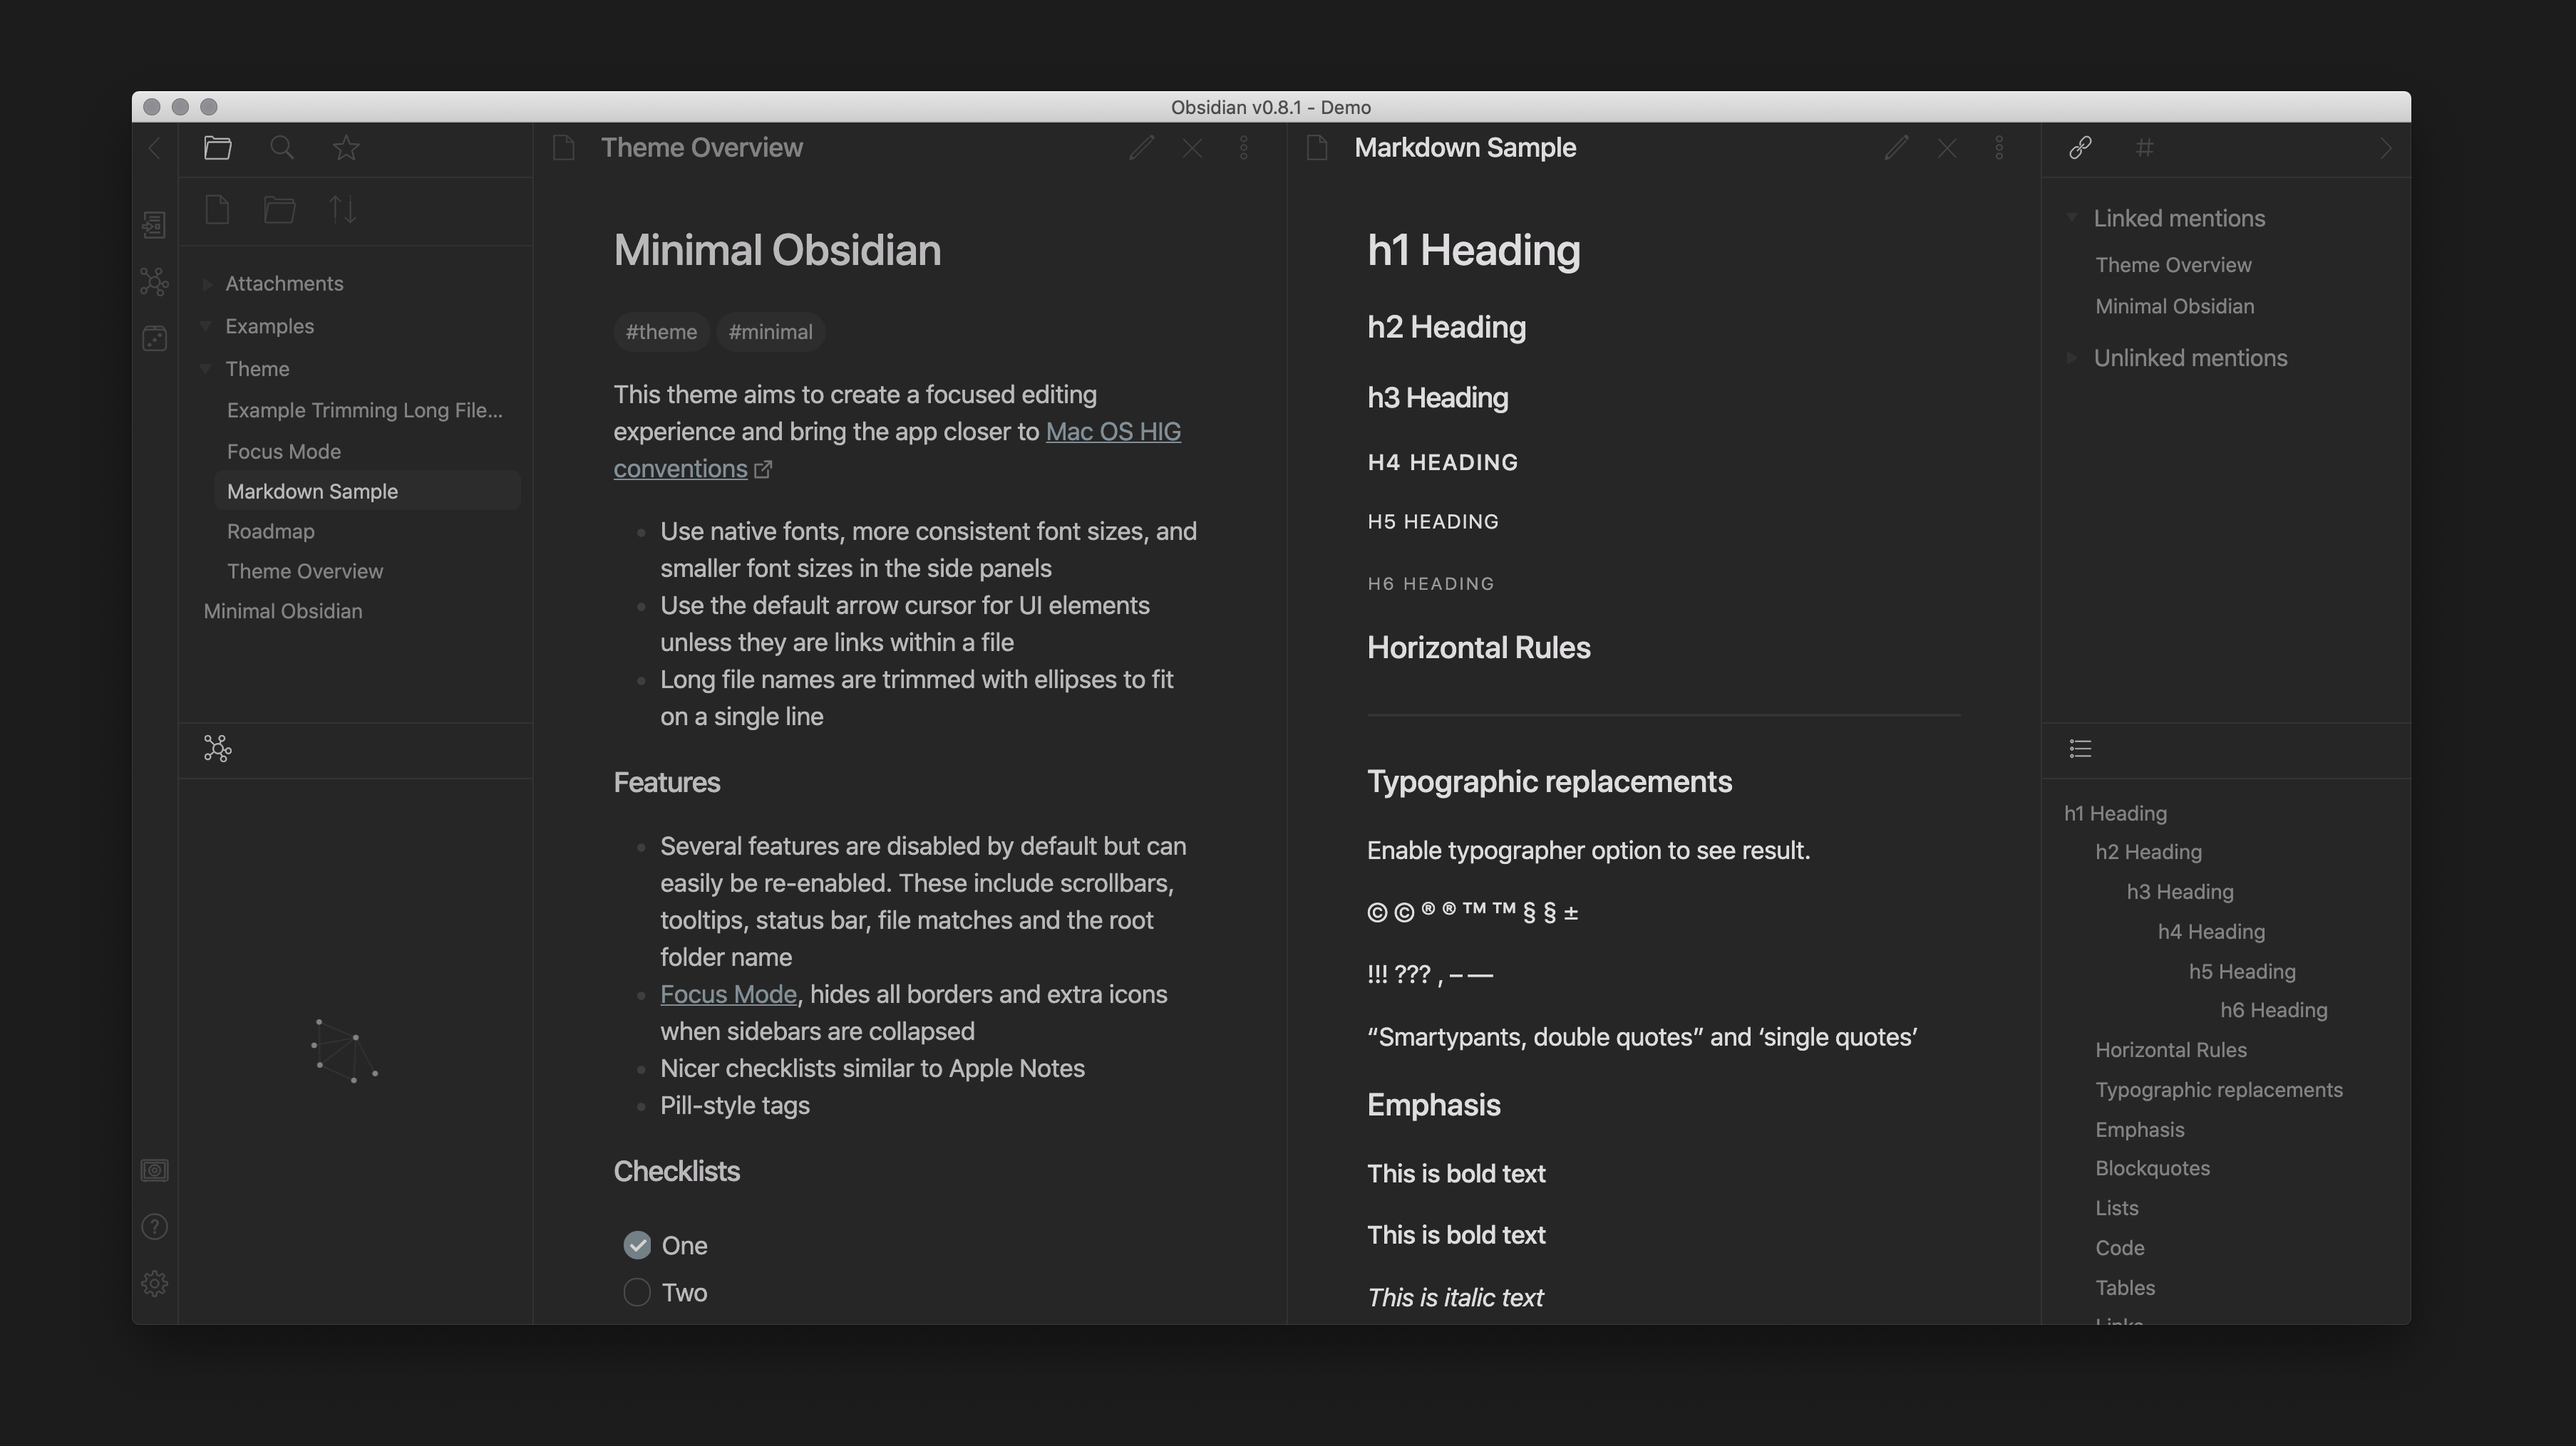
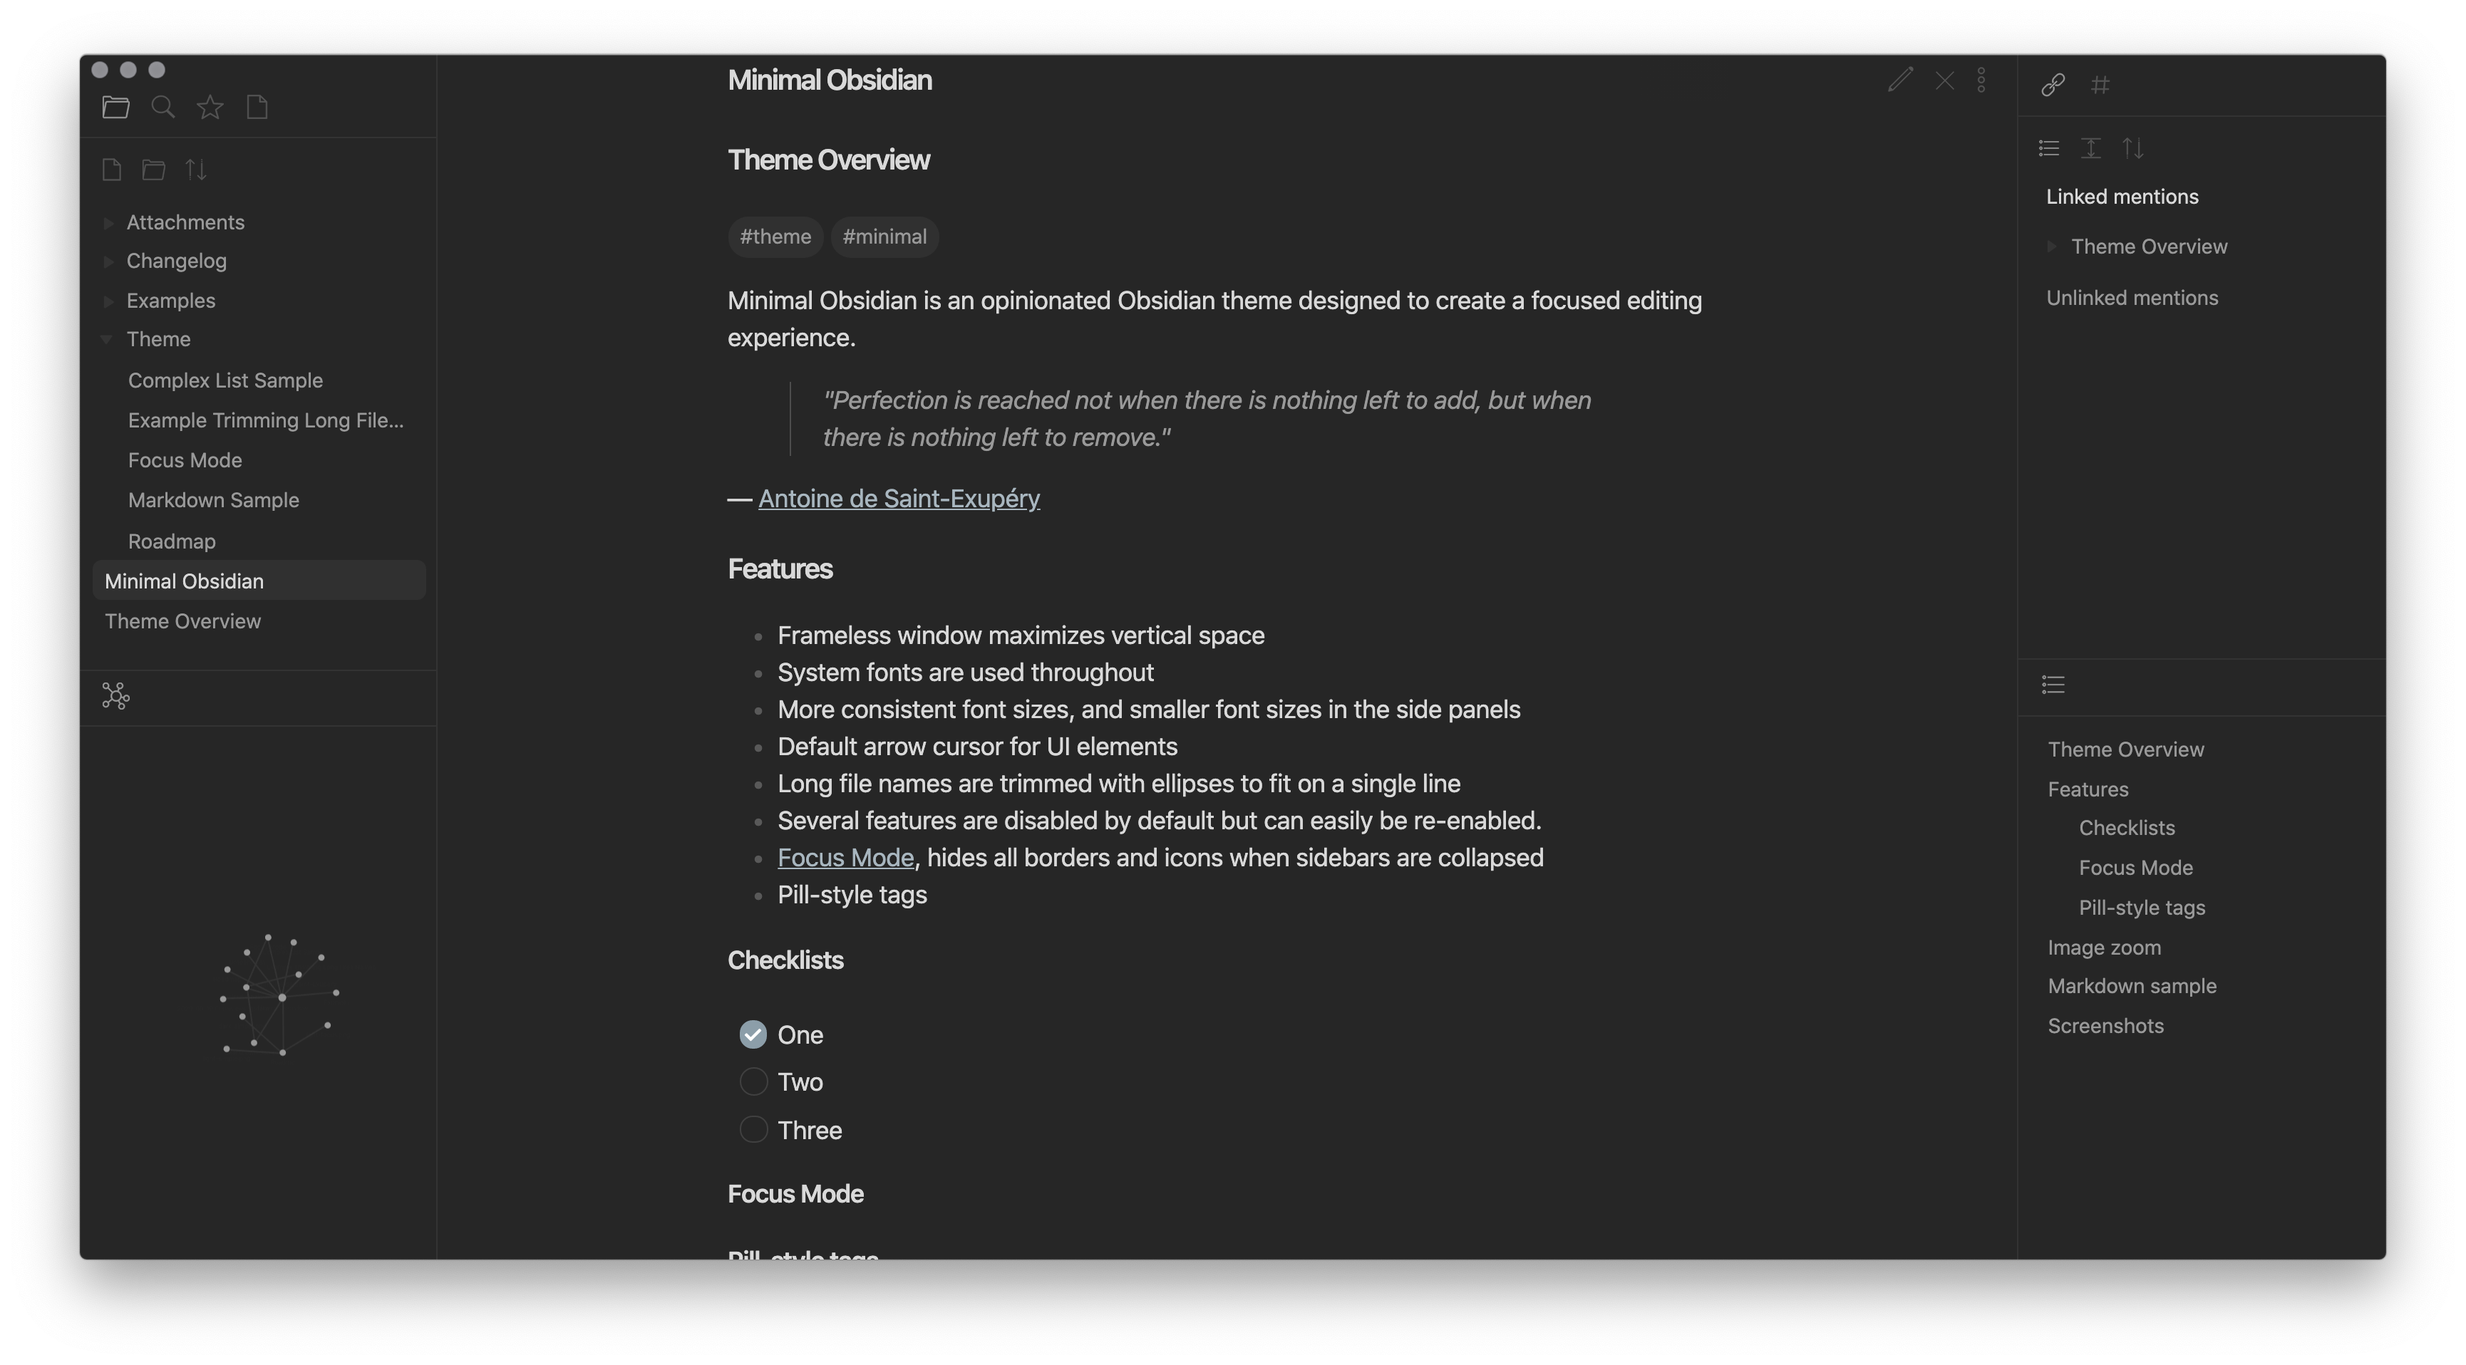
Prepare for release

diff --git a/obsidian.css b/obsidian.css
@@ -327,14 +327,14 @@ body, input, button,
 .HyperMD-header-1,
 .cm-header-1 {
   letter-spacing:-0.02em;
-  font-size:22px !important;
+  font-size:24px !important;
   font-weight:var(--bold-weight) !important;
 }
 .markdown-preview-view h2,
 .HyperMD-header-2,
 .cm-header-2 {
   letter-spacing:-0.02em;
-  font-size:20px !important;
+  font-size:18px !important;
   font-weight:var(--bold-weight) !important;
 }
 .markdown-preview-view h3,
@@ -1029,7 +1029,7 @@ input[type=checkbox]:checked {
 .tree-view-item-collapse {
   opacity:1;
 }
-.outline > .tree-view-item:first-child > .tree-view-item-self .right-triangle {
+.outline > .tree-view-item > .tree-view-item-self .right-triangle {
   opacity:0;
 }
 
@@ -1309,7 +1309,7 @@ ul {
   padding-inline-start:2em;
   list-style:none;
 }
-ul ul, ol ul {
+ul ul, ol ul, ol ol ul, ol ul ul, ul ol ul, ul ul ul {
   list-style:none;
 }
 ul > li:not(.task-list-item)::before {

diff --git a/README.md b/README.md
@@ -1,22 +1,47 @@
-# Minimal Obsidian
+Minimal is an opinionated Obsidian theme designed to create a focused editing experience and more Mac-like interface.
 
 ### Disclaimer
 
-This theme is provided as is, and is focused on my personal use of Obsidian. As such I haven't optimized or tested it with all the features of Obsidian that I don't frequently use. Since this theme modifies significant parts of the Obsidian interface, it might break with future updates. It also may be incompatible with other bits of custom CSS you have. The file is organized in such a way that you can comment out sections that may be causing conflicts.
+This theme is provided as is, and is focused on my personal use of Obsidian on Mac OS. As such it is not thoroughly tested across all operating systems and features of Obsidian. 
+
+This theme modifies significant parts of the Obsidian interface, so it might break with future updates. It may also be incompatible with other bits of custom CSS you have. The theme file is organized in such a way that you can comment out sections that may be causing conflicts.
 
 ### Goals
-This theme aims to create a focused editing experience and bring the app closer to [Mac OS HIG conventions](https://developer.apple.com/design/human-interface-guidelines/macos/overview/themes/)
 
-- Use native fonts, more consistent font sizes, and smaller font sizes in the side panels
-- Use the default arrow cursor for UI elements unless they are links within a file
-- Long file names are  trimmed with ellipses to fit on a single line
+- Simplify the UI to create a focused editing experience
+- Keyboard-first design as a philosophy behind which features to hide
+- Bring Obsidian closer to the [Mac OS HIG](https://developer.apple.com/design/human-interface-guidelines/macos/overview/themes/) with native fonts and conventions
+- Polish improvements on par with Bear, Notion, Apple Notes and other minimally designed note-taking apps
 
-### Features
-- Several features are disabled by default but can easily be re-enabled. These include scrollbars, tooltips, status bar, file matches and the root folder name
-- Focus Mode, hides all borders and extra icons when sidebars are collapsed
+### Polish improvements
+
+- Focus Mode, everything but the text is hidden when sidebars are collapsed
 - Nicer checklists similar to Apple Notes
 - Pill-style tags
 - Click to zoom on images
+- Easily customize base colors, and all the borders/fonts will automatically adjust
+
+### More native experience
+
+- System fonts
+- Frameless window chrome maximizes vertical space
+- More consistent font sizes, and smaller font sizes in the side panels
+- Default arrow cursor for UI elements
+- Long file names are trimmed with ellipses to fit on a single line
+
+### Hidden elements
+
+Minimal hides or disables parts of Obsidian in pursuit of a simpler interface. This theme is optimized for keyboard-first users who are comfortable accessing functionality via the hotkeys.
+
+- Disabled features are at the top of the CSS file, so they can be easily re-enabled
+- Scrollbars, tooltips, status bar, and the root folder name are hidden
+- Menu ribbon is accessible by hovering over the bottom left edge of the window
+
+### Automatic color
+
+Theme colors are driven by a few HSL values that you can customize. The backgrounds, borders, and various shades are automatically generated for you using the base and accent values you provide.
+
+### Screenshots
 
 ![](dark-complex.png)
 ![](dark-simple.png)
